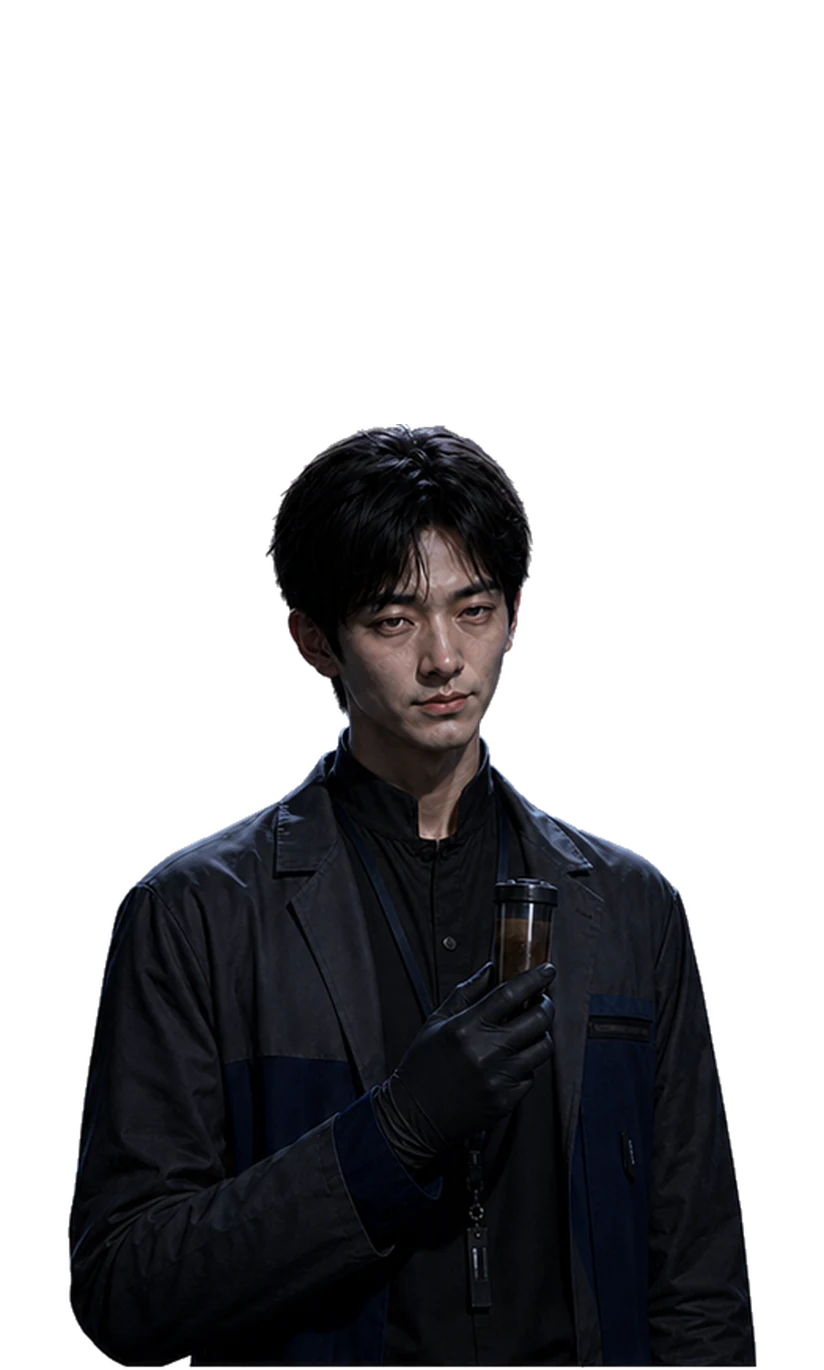
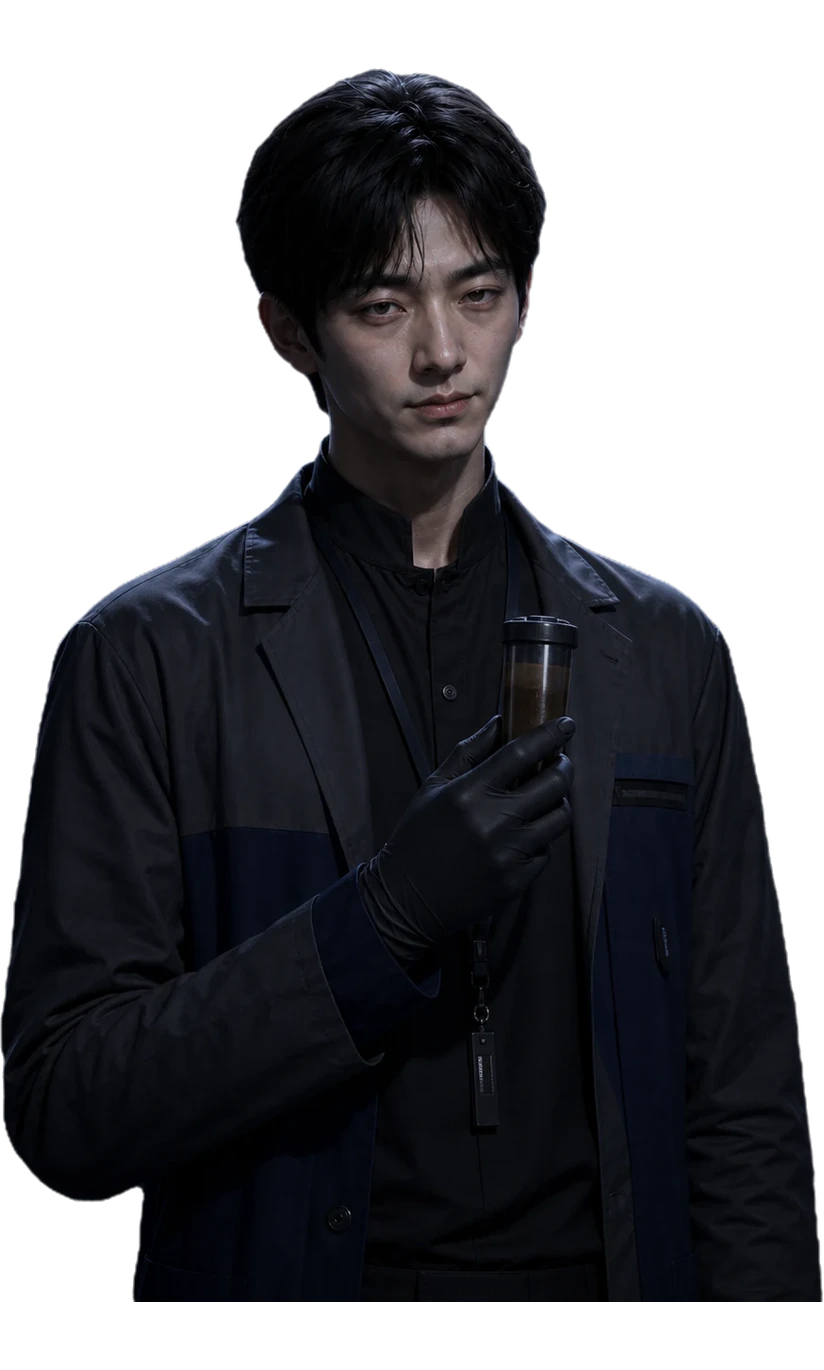
feat: 조사실 내 용의자 위치 조정 및 정보 패널 추가 (#61)

diff --git a/public/samunmong/prototype.js b/public/samunmong/prototype.js
@@ -112,11 +112,18 @@
       { name: "말포삼", id: "malposam", scene: "/samunmong/assets/magic-school/interrogation/office-empty.webp", sprite: "/samunmong/assets/magic-school/interrogation/malposam-sprite.webp", sleeveScene: "/samunmong/assets/magic-school/interrogation/office-empty.webp" },
       { name: "말포일", id: "malpoil", scene: "/samunmong/assets/magic-school/interrogation/office-empty.webp", sprite: "/samunmong/assets/magic-school/interrogation/malpoil-sprite.webp", sleeveScene: "/samunmong/assets/magic-school/interrogation/office-empty.webp" }
     ];
+    const spacePersonnelAuthIds = {
+      david: "ORBIT-13-ENG-0714",
+      mers: "ORBIT-13-MED-0427",
+      harry: "ORBIT-13-DAT-0319",
+      aladdindin: "ORBIT-13-MNT-0821",
+      einspanner: "ORBIT-13-SCI-0516"
+    };
     const spaceSuspects = [
-      { name: "해리", id: "harry", scene: "/assets/space-station/backgrounds/emergency-investigation-room-v2.webp", sprite: "/assets/space-station/characters/harry-upper-transparent.webp", sleeveScene: "/assets/space-station/characters/harry-upper-transparent.webp" },
-      { name: "메르스", id: "mers", scene: "/assets/space-station/backgrounds/emergency-investigation-room-v2.webp", sprite: "/assets/space-station/characters/mers-upper-aligned.webp", sleeveScene: "/assets/space-station/characters/mers-upper-aligned.webp" },
-      { name: "알라딘딘", id: "aladdindin", scene: "/assets/space-station/backgrounds/emergency-investigation-room-v2.webp", sprite: "/assets/space-station/characters/aladdindin-upper-aligned.webp", sleeveScene: "/assets/space-station/characters/aladdindin-upper-aligned.webp" },
-      { name: "아인슈페너", id: "einspanner", scene: "/assets/space-station/backgrounds/emergency-investigation-room-v2.webp", sprite: "/assets/space-station/characters/einspanner-upper-aligned.webp", sleeveScene: "/assets/space-station/characters/einspanner-upper-aligned.webp" }
+      { name: "해리", id: "harry", authId: spacePersonnelAuthIds.harry, scene: "/assets/space-station/backgrounds/emergency-investigation-room-v2.webp", sprite: "/assets/space-station/characters/harry-upper-transparent.webp", sleeveScene: "/assets/space-station/characters/harry-upper-transparent.webp" },
+      { name: "메르스", id: "mers", authId: spacePersonnelAuthIds.mers, scene: "/assets/space-station/backgrounds/emergency-investigation-room-v2.webp", sprite: "/assets/space-station/characters/mers-upper-aligned.webp", sleeveScene: "/assets/space-station/characters/mers-upper-aligned.webp" },
+      { name: "알라딘딘", id: "aladdindin", authId: spacePersonnelAuthIds.aladdindin, scene: "/assets/space-station/backgrounds/emergency-investigation-room-v2.webp", sprite: "/assets/space-station/characters/aladdindin-upper-aligned.webp", sleeveScene: "/assets/space-station/characters/aladdindin-upper-aligned.webp" },
+      { name: "아인슈페너", id: "einspanner", authId: spacePersonnelAuthIds.einspanner, scene: "/assets/space-station/backgrounds/emergency-investigation-room-v2.webp", sprite: "/assets/space-station/characters/einspanner-upper-aligned.webp", sleeveScene: "/assets/space-station/characters/einspanner-upper-aligned.webp" }
     ];
     const suspects = isSpaceTheme ? spaceSuspects : isMagicTheme ? magicSuspects : window.SAMUNMONG_CONTENT?.suspects || [
       { name: "돌쇠", id: "dolsoe", scene: "/samunmong/assets/scene-interrogation-dolsoe.webp?v=scene-20260707", sleeveScene: "/samunmong/assets/scene-interrogation-dolsoe-sleeve.webp?v=sleeve-20260707", lieScene: "/samunmong/assets/interrogation-expressions/scene-interrogation-dolsoe-lie.png?v=lie-20260824" },
@@ -5995,7 +6002,15 @@
 
     function updateSuspect(shouldAnnounce = true) {
       const suspect = suspects[suspectIndex];
-      document.querySelector("#suspectName").textContent = suspect.name;
+      const suspectNamePanel = document.querySelector("#suspectName");
+      const suspectNameValue = suspectNamePanel?.querySelector(".suspect-name-value");
+      const suspectAuthId = suspectNamePanel?.querySelector(".suspect-auth-id");
+      if (suspectNameValue) {
+        suspectNameValue.textContent = suspect.name;
+        if (suspectAuthId) suspectAuthId.textContent = suspect.authId || "";
+      } else if (suspectNamePanel) {
+        suspectNamePanel.textContent = suspect.name;
+      }
       document.querySelector("#suspectStage").dataset.suspect = suspect.id;
       const interrogationScreen = document.querySelector("#interrogationScreen");
       setLieExpressionOverlay(false);
@@ -6016,7 +6031,7 @@
       activeNoteSuspectId = suspect.id;
       renderConversationNotes();
       syncVisibleSuspectReply();
-      if (shouldAnnounce && getActiveScreenId() === "interrogationScreen") {
+      if (shouldAnnounce && !isSpaceTheme && getActiveScreenId() === "interrogationScreen") {
         showToast(`${suspect.name} 심문으로 전환`);
       }
     }

diff --git a/app/game.css b/app/game.css
@@ -4887,6 +4887,86 @@
       text-shadow: 0 2px 8px rgba(0,0,0,.9), 0 0 10px rgba(217,178,104,.18);
     }
 
+    html[data-samunmong-theme="spaceStation"] .suspect-name,
+    .game-shell[data-initial-theme="spaceStation"] .suspect-name {
+      left: calc(50% - min(15vw, 215px) + 600px);
+      top: 33%;
+      bottom: auto;
+      z-index: 7;
+      width: clamp(240px, 20vw, 315px);
+      min-width: 0;
+      max-width: calc(100vw - 28px);
+      padding: 14px;
+      border: 1px solid rgba(218, 224, 229, .42);
+      border-radius: 10px;
+      color: #eaf6ff;
+      background: rgba(225, 238, 246, .12);
+      box-shadow:
+        inset 0 0 10px rgba(104, 201, 245, .06),
+        0 7px 18px rgba(0, 0, 0, .46);
+      font-family: "VitroPride", "Noto Sans KR", sans-serif;
+      font-size: 16px;
+      font-weight: 400;
+      line-height: 1.35;
+      text-align: left;
+      text-shadow: 0 2px 8px rgba(0, 0, 0, .82);
+      backdrop-filter: blur(10px) saturate(.9);
+      pointer-events: none;
+      transform: translate(-100%, -50%);
+    }
+
+    html[data-samunmong-theme="spaceStation"] .suspect-name-line,
+    .game-shell[data-initial-theme="spaceStation"] .suspect-name-line {
+      display: flex;
+      align-items: baseline;
+      gap: 10px;
+      padding: 0 3px;
+      font-size: 21px;
+    }
+
+    html[data-samunmong-theme="spaceStation"] .suspect-name-line span,
+    .game-shell[data-initial-theme="spaceStation"] .suspect-name-line span {
+      color: rgba(234, 246, 255, .72);
+      font-size: 13px;
+    }
+
+    html[data-samunmong-theme="spaceStation"] .suspect-name-value,
+    .game-shell[data-initial-theme="spaceStation"] .suspect-name-value {
+      color: #eaf6ff;
+      font-size: 24px;
+      font-weight: 500;
+    }
+
+    html[data-samunmong-theme="spaceStation"] .suspect-auth-card,
+    .game-shell[data-initial-theme="spaceStation"] .suspect-auth-card {
+      min-width: 0;
+      margin: 11px 0 0;
+      padding: 9px 13px 11px;
+      border: 1px solid rgba(218, 224, 229, .42);
+      border-radius: 6px;
+      background: rgba(5, 15, 25, .22);
+      box-shadow: inset 0 0 10px rgba(104, 201, 245, .06);
+    }
+
+    html[data-samunmong-theme="spaceStation"] .suspect-auth-card legend,
+    .game-shell[data-initial-theme="spaceStation"] .suspect-auth-card legend {
+      padding: 0 6px;
+      color: rgba(234, 246, 255, .72);
+      font-size: 12px;
+      font-weight: 400;
+    }
+
+    html[data-samunmong-theme="spaceStation"] .suspect-auth-id,
+    .game-shell[data-initial-theme="spaceStation"] .suspect-auth-id {
+      display: block;
+      color: #eaf6ff;
+      font-family: "VitroPride", "Consolas", monospace;
+      font-size: clamp(14px, 1.15vw, 18px);
+      font-weight: 500;
+      letter-spacing: .04em;
+      white-space: nowrap;
+    }
+
     .suspect-stage {
       display: none;
       position: absolute;
@@ -4999,11 +5079,11 @@
     .game-shell[data-initial-theme="spaceStation"] .suspect-stage {
       display: block;
       left: 50%;
-      bottom: 18%;
+      bottom: calc(18% + 50px);
       width: min(30vw, 430px);
       height: min(62vh, 570px);
       z-index: 5;
-      --suspect-scale: .9;
+      --suspect-scale: .99;
     }
 
     html[data-samunmong-theme="spaceStation"] .suspect-stage::before,

diff --git a/components/scenes/InterrogationScreen.tsx b/components/scenes/InterrogationScreen.tsx
@@ -240,7 +240,18 @@ export default function InterrogationScreen({ initialTheme }: { initialTheme: Ga
         </div>
 
         <div className="hud suspect-name" id="suspectName">
-          {initialName}
+          {isSpaceTheme ? (
+            <>
+              <div className="suspect-name-line">
+                <span>이름 :</span>
+                <strong className="suspect-name-value">{initialName}</strong>
+              </div>
+              <fieldset className="suspect-auth-card">
+                <legend>정거장 개인 인증 ID</legend>
+                <strong className="suspect-auth-id">ORBIT-13-DAT-0319</strong>
+              </fieldset>
+            </>
+          ) : initialName}
         </div>
         <div className="suspect-switch">
           <button
